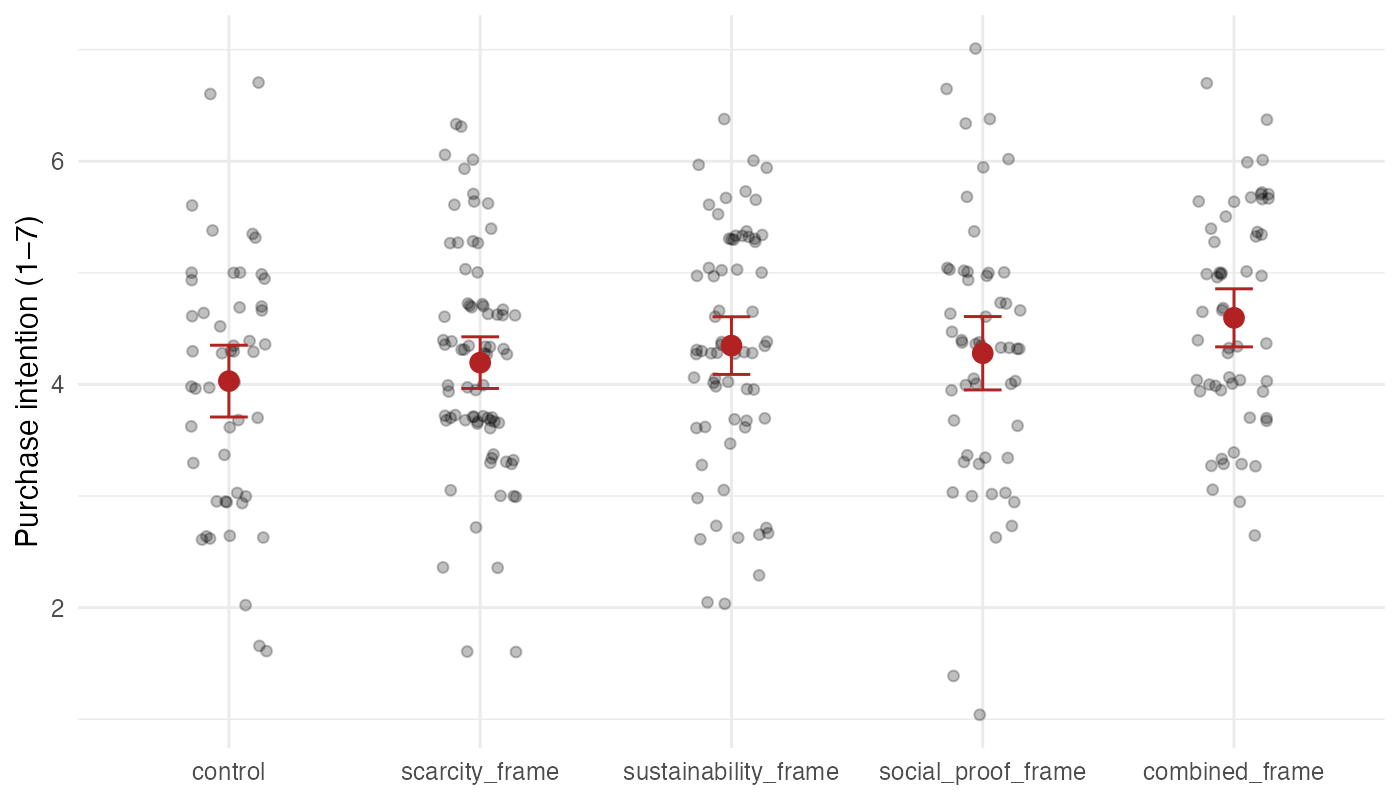
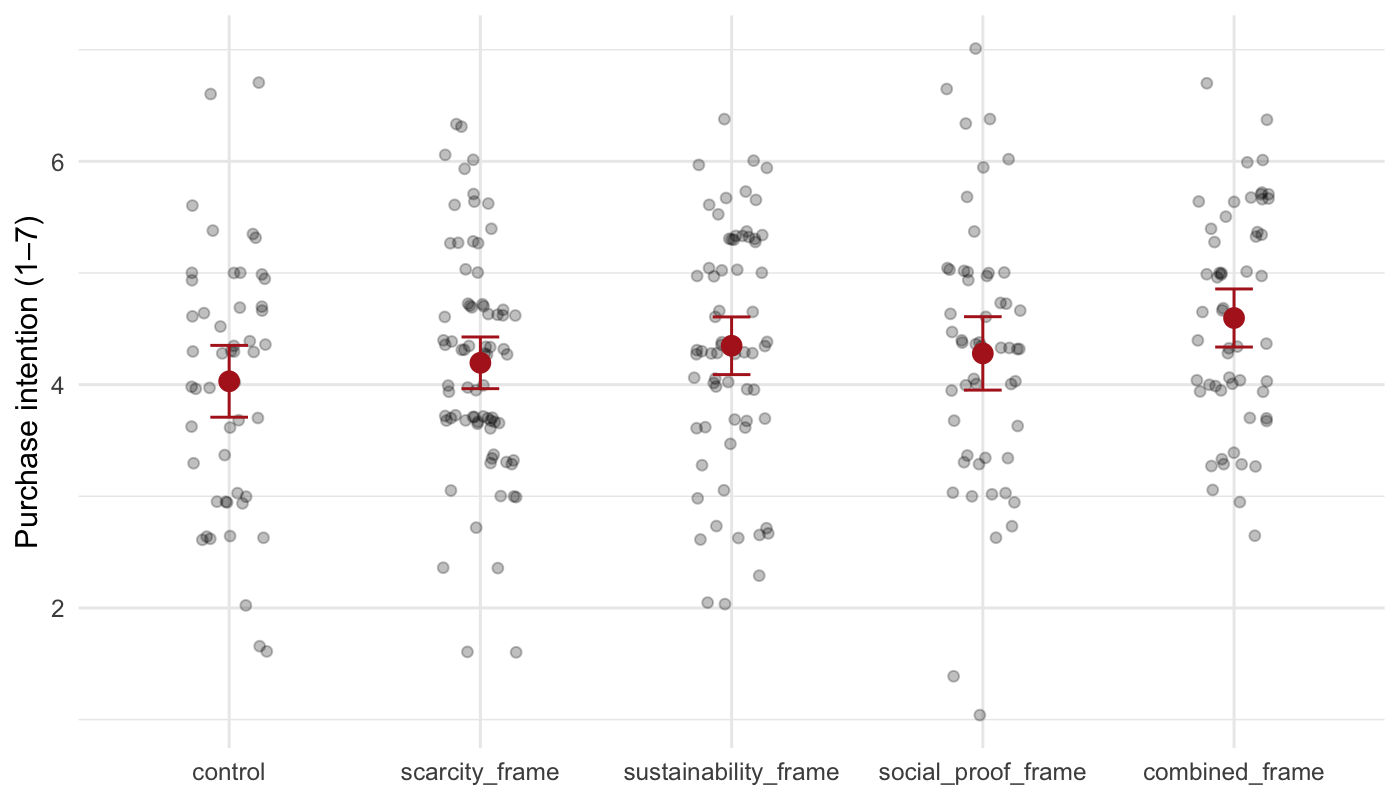
manuscript Latex into multiple

diff --git a/manuscript/main.tex b/manuscript/main.tex
@@ -1,3 +1,19 @@
+% ===========================================================================
+% main.tex — the ORCHESTRATOR. This file owns the preamble and the order of
+% the paper; it holds no prose itself. Everything is pulled in with \input{}.
+%
+% Two kinds of inputs, two workflows:
+%
+%   sections/*.tex        PROSE, no data. Live-edit these on Overleaf with
+%                         co-authors. Pull their edits back into git.
+%
+%   output/tabs/*.tex     GENERATED from data by R/03_analysis.R. Render and
+%   ../figures/*.png      push them; never hand-edit. Re-run the script and
+%                         they update on the next compile.
+%
+% This split keeps collaboration (prose) and reproducibility (data) from
+% stepping on each other, while one file keeps the overview of the whole paper.
+% ===========================================================================
 \documentclass[11pt]{article}
 
 \usepackage[a4paper, margin=1in]{geometry}
@@ -16,62 +32,16 @@
 \maketitle
 
 \begin{abstract}
-We test whether messaging frames (scarcity, sustainability, social proof,
-and a combined frame) increase purchase intention for everyday consumer
-products, whether this effect is mediated by perceived value, and whether
-it is moderated by price sensitivity. Data, scripts, and outputs live in
-the same git repository as this manuscript.
+\input{sections/abstract.tex}
 \end{abstract}
 
-\section{Introduction}
+% ---- Prose sections (live-editable on Overleaf) ---------------------------
+\input{sections/introduction.tex}
+\input{sections/methods.tex}
+\input{sections/results.tex}
+\input{sections/discussion.tex}
 
-Mediation and moderation logic follows the classical framework
-\citep{baron1986} and the regression-based approach in \citet{hayes2017}.
-
-\section{Methods}
-
-Three hundred simulated participants were randomly assigned to one of five
-conditions and reported their attitudes and a hypothetical purchase
-decision. See the project repository for the full codebook.
-
-\section{Results}
-
-\subsection{Main effect}
-
-\begin{figure}[h]
-  \centering
-  \includegraphics[width=0.85\textwidth]{../figures/fig_01_pi_by_condition.png}
-  \caption{Purchase intention by condition. Red points are condition means
-           with 95\% confidence intervals.}
-  \label{fig:main}
-\end{figure}
-
-\subsection{Mediation through perceived value}
-
-\begin{figure}[h]
-  \centering
-  \includegraphics[width=0.85\textwidth]{../figures/fig_02_mediation_scatter.png}
-  \caption{Perceived value predicts purchase intention; the conditions
-           shift perceived value upward, producing an indirect path.}
-  \label{fig:mediation}
-\end{figure}
-
-\subsection{Moderation by price sensitivity}
-
-\begin{figure}[h]
-  \centering
-  \includegraphics[width=0.85\textwidth]{../figures/fig_03_moderation.png}
-  \caption{The condition boost is attenuated for high-price-sensitive
-           respondents.}
-  \label{fig:moderation}
-\end{figure}
-
-\section{Discussion}
-
-The figures referenced above are produced by \texttt{R/03\_analysis.R}.
-Re-running that script overwrites them; this manuscript picks up the new
-versions on the next compile. No file is duplicated between code and paper.
-
+% ---- Bibliography ---------------------------------------------------------
 \bibliographystyle{plain}
 \bibliography{../references/references}
 

diff --git a/manuscript/output/tabs/model_table.tex b/manuscript/output/tabs/model_table.tex
@@ -1,0 +1,70 @@
+\begin{table}
+
+\caption{\label{tab:models}Model estimates with 95\% confidence intervals.}
+\centering
+\begin{tabular}[t]{llrrrrr}
+\toprule
+Model & Term & Estimate & SE & CI low & CI high & p\\
+\midrule
+total & (Intercept) & 4.08 & 0.25 & 3.59 & 4.58 & 0.000\\
+total & conditionscarcity\_frame & 0.14 & 0.20 & -0.26 & 0.54 & 0.494\\
+total & conditionsustainability\_frame & 0.31 & 0.21 & -0.09 & 0.72 & 0.133\\
+total & conditionsocial\_proof\_frame & 0.24 & 0.22 & -0.19 & 0.67 & 0.271\\
+total & conditioncombined\_frame & 0.58 & 0.22 & 0.15 & 1.01 & 0.008\\
+\addlinespace
+total & age & 0.00 & 0.01 & -0.01 & 0.01 & 0.858\\
+total & genderman & -0.03 & 0.14 & -0.30 & 0.24 & 0.816\\
+total & gendernon\_binary & -0.46 & 0.34 & -1.14 & 0.21 & 0.175\\
+total & genderprefer\_not\_to\_say & 0.12 & 0.30 & -0.46 & 0.71 & 0.676\\
+total & income\_group.L & -0.18 & 0.13 & -0.43 & 0.08 & 0.177\\
+\addlinespace
+total & income\_group.Q & 0.02 & 0.10 & -0.18 & 0.23 & 0.841\\
+mediator & (Intercept) & 4.06 & 0.24 & 3.58 & 4.55 & 0.000\\
+mediator & conditionscarcity\_frame & 0.04 & 0.20 & -0.34 & 0.43 & 0.820\\
+mediator & conditionsustainability\_frame & 0.48 & 0.20 & 0.09 & 0.87 & 0.016\\
+mediator & conditionsocial\_proof\_frame & 0.20 & 0.21 & -0.22 & 0.61 & 0.351\\
+\addlinespace
+mediator & conditioncombined\_frame & 0.85 & 0.21 & 0.44 & 1.26 & 0.000\\
+mediator & age & 0.00 & 0.01 & -0.01 & 0.01 & 0.877\\
+mediator & genderman & -0.11 & 0.13 & -0.37 & 0.15 & 0.413\\
+mediator & gendernon\_binary & -0.07 & 0.33 & -0.72 & 0.58 & 0.832\\
+mediator & genderprefer\_not\_to\_say & 0.43 & 0.29 & -0.13 & 1.00 & 0.132\\
+\addlinespace
+mediator & income\_group.L & -0.10 & 0.12 & -0.35 & 0.15 & 0.424\\
+mediator & income\_group.Q & 0.04 & 0.10 & -0.15 & 0.24 & 0.665\\
+outcome\_w\_m & (Intercept) & 2.23 & 0.32 & 1.60 & 2.87 & 0.000\\
+outcome\_w\_m & conditionscarcity\_frame & 0.12 & 0.18 & -0.24 & 0.48 & 0.516\\
+outcome\_w\_m & conditionsustainability\_frame & 0.09 & 0.19 & -0.28 & 0.46 & 0.630\\
+\addlinespace
+outcome\_w\_m & conditionsocial\_proof\_frame & 0.15 & 0.20 & -0.24 & 0.54 & 0.443\\
+outcome\_w\_m & conditioncombined\_frame & 0.19 & 0.20 & -0.20 & 0.59 & 0.334\\
+outcome\_w\_m & perceived\_value & 0.46 & 0.06 & 0.35 & 0.57 & 0.000\\
+outcome\_w\_m & age & 0.00 & 0.01 & -0.01 & 0.01 & 0.784\\
+outcome\_w\_m & genderman & 0.02 & 0.12 & -0.22 & 0.26 & 0.888\\
+\addlinespace
+outcome\_w\_m & gendernon\_binary & -0.43 & 0.31 & -1.04 & 0.17 & 0.160\\
+outcome\_w\_m & genderprefer\_not\_to\_say & -0.07 & 0.27 & -0.60 & 0.46 & 0.786\\
+outcome\_w\_m & income\_group.L & -0.13 & 0.12 & -0.36 & 0.10 & 0.267\\
+outcome\_w\_m & income\_group.Q & 0.00 & 0.09 & -0.18 & 0.19 & 0.990\\
+moderation & (Intercept) & 4.15 & 0.24 & 3.67 & 4.63 & 0.000\\
+\addlinespace
+moderation & conditionscarcity\_frame & 0.09 & 0.20 & -0.30 & 0.48 & 0.649\\
+moderation & conditionsustainability\_frame & 0.27 & 0.20 & -0.12 & 0.66 & 0.177\\
+moderation & conditionsocial\_proof\_frame & 0.09 & 0.21 & -0.33 & 0.51 & 0.667\\
+moderation & conditioncombined\_frame & 0.48 & 0.21 & 0.06 & 0.89 & 0.025\\
+moderation & price\_sensitivity\_c & -0.49 & 0.12 & -0.72 & -0.25 & 0.000\\
+\addlinespace
+moderation & age & 0.00 & 0.01 & -0.01 & 0.01 & 0.947\\
+moderation & genderman & -0.07 & 0.13 & -0.33 & 0.19 & 0.603\\
+moderation & gendernon\_binary & -0.32 & 0.33 & -0.97 & 0.33 & 0.329\\
+moderation & genderprefer\_not\_to\_say & 0.15 & 0.29 & -0.41 & 0.72 & 0.590\\
+moderation & income\_group.L & -0.21 & 0.13 & -0.45 & 0.04 & 0.102\\
+\addlinespace
+moderation & income\_group.Q & 0.03 & 0.10 & -0.16 & 0.23 & 0.743\\
+moderation & conditionscarcity\_frame:price\_sensitivity\_c & 0.29 & 0.15 & -0.01 & 0.60 & 0.060\\
+moderation & conditionsustainability\_frame:price\_sensitivity\_c & 0.28 & 0.16 & -0.05 & 0.60 & 0.095\\
+moderation & conditionsocial\_proof\_frame:price\_sensitivity\_c & 0.24 & 0.16 & -0.08 & 0.57 & 0.142\\
+moderation & conditioncombined\_frame:price\_sensitivity\_c & 0.35 & 0.17 & 0.02 & 0.69 & 0.039\\
+\bottomrule
+\end{tabular}
+\end{table}

diff --git a/manuscript/sections/results.tex b/manuscript/sections/results.tex
@@ -1,0 +1,46 @@
+% sections/results.tex — PROSE + references to GENERATED files.
+%
+% The prose here is safe to live-edit on Overleaf. The figures
+% (../figures/*.png) and the model table (output/tabs/model_table.tex) are
+% produced by R/03_analysis.R and pushed — do NOT hand-edit those; re-run
+% the script and they update on the next compile.
+\section{Results}
+
+\subsection{Main effect}
+
+\begin{figure}[h]
+  \centering
+  \includegraphics[width=0.85\textwidth]{../figures/fig_01_pi_by_condition.png}
+  \caption{Purchase intention by condition. Red points are condition means
+           with 95\% confidence intervals.}
+  \label{fig:main}
+\end{figure}
+
+\subsection{Mediation through perceived value}
+
+\begin{figure}[h]
+  \centering
+  \includegraphics[width=0.85\textwidth]{../figures/fig_02_mediation_scatter.png}
+  \caption{Perceived value predicts purchase intention; the conditions
+           shift perceived value upward, producing an indirect path.}
+  \label{fig:mediation}
+\end{figure}
+
+\subsection{Moderation by price sensitivity}
+
+\begin{figure}[h]
+  \centering
+  \includegraphics[width=0.85\textwidth]{../figures/fig_03_moderation.png}
+  \caption{The condition boost is attenuated for high-price-sensitive
+           respondents.}
+  \label{fig:moderation}
+\end{figure}
+
+\subsection{Model estimates}
+
+Table~\ref{tab:models} collects the coefficients behind the figures above.
+It is generated by \texttt{R/03\_analysis.R} and written straight into
+\texttt{output/tabs/}, so the numbers in the paper can never drift from the
+numbers in the analysis.
+
+\input{output/tabs/model_table.tex}

diff --git a/manuscript/sections/discussion.tex b/manuscript/sections/discussion.tex
@@ -1,0 +1,7 @@
+% sections/discussion.tex — PROSE (no data). Safe to live-edit on Overleaf.
+\section{Discussion}
+
+The figures and table referenced above are produced by
+\texttt{R/03\_analysis.R}. Re-running that script overwrites them; this
+manuscript picks up the new versions on the next compile. No file is
+duplicated between code and paper.

diff --git a/manuscript/sections/abstract.tex b/manuscript/sections/abstract.tex
@@ -1,0 +1,6 @@
+% sections/abstract.tex — PROSE (no data). Safe to live-edit on Overleaf.
+We test whether messaging frames (scarcity, sustainability, social proof,
+and a combined frame) increase purchase intention for everyday consumer
+products, whether this effect is mediated by perceived value, and whether
+it is moderated by price sensitivity. Data, scripts, and outputs live in
+the same git repository as this manuscript.

diff --git a/manuscript/sections/methods.tex b/manuscript/sections/methods.tex
@@ -1,0 +1,6 @@
+% sections/methods.tex — PROSE (no data). Safe to live-edit on Overleaf.
+\section{Methods}
+
+Three hundred simulated participants were randomly assigned to one of five
+conditions and reported their attitudes and a hypothetical purchase
+decision. See the project repository for the full codebook.

diff --git a/manuscript/sections/introduction.tex b/manuscript/sections/introduction.tex
@@ -1,0 +1,5 @@
+% sections/introduction.tex — PROSE (no data). Safe to live-edit on Overleaf.
+\section{Introduction}
+
+Mediation and moderation logic follows the classical framework
+\citep{baron1986} and the regression-based approach in \citet{hayes2017}.

diff --git a/manuscript/README.md b/manuscript/README.md
@@ -7,18 +7,55 @@ The static, paper-style version of your work. Two routes land here:
    [`../reports/00_walkthrough.qmd`](../reports/00_walkthrough.qmd). A
    post-render hook ([`../scripts/post_render.R`](../scripts/post_render.R))
    moves them out of `docs/` and into here. **This is the easy path.**
-2. **Hand-written LaTeX in [`main.tex`](main.tex).** Use this when you need
-   journal-specific formatting (a class file, a specific bibliography
-   style, custom title pages). The walkthrough's figures in
-   [`../figures/`](../figures/) and the shared `.bib` work the same way.
+2. **Hand-written LaTeX orchestrated by [`main.tex`](main.tex).** Use this
+   when you need journal-specific formatting (a class file, a specific
+   bibliography style, custom title pages) or when co-authors collaborate on
+   Overleaf. The walkthrough's figures in [`../figures/`](../figures/) and the
+   shared `.bib` work the same way.
 
 Pick whichever fits the destination. Internal report or working PDF → the
-walkthrough route. Journal submission → hand-written LaTeX, often via
-Overleaf.
+walkthrough route. Journal submission → the LaTeX route, often via Overleaf.
+
+## How the LaTeX is structured
+
+[`main.tex`](main.tex) is an **orchestrator**: it owns the preamble and the
+order of the paper, but holds no prose itself. It pulls everything in with
+`\input{}`. There are two kinds of inputs, and they have two different
+workflows:
+
+| Kind | Lives in | Contains data? | Workflow |
+| --- | --- | --- | --- |
+| **Prose** | [`sections/`](sections/) | No | Live-edit on Overleaf with co-authors, pull edits back into git. |
+| **Generated** | [`output/tabs/`](output/tabs/), [`../figures/`](../figures/) | Yes | R writes them, you commit them. **Never hand-edit.** Re-run the script and they refresh on the next compile. |
+
+This is the whole point of the split: prose changes (collaboration) and data
+changes (reproducibility) never step on each other, and `main.tex` keeps the
+overview of the whole paper in one place. A table like
+[`output/tabs/model_table.tex`](output/tabs/) is produced by
+[`../R/03_analysis.R`](../R/03_analysis.R) — the numbers in the paper can't
+drift from the numbers in the analysis.
+
+```
+manuscript/
+├── main.tex              # orchestrator — preamble + \input order, no prose
+├── sections/             # PROSE — live-edit on Overleaf
+│   ├── abstract.tex
+│   ├── introduction.tex
+│   ├── methods.tex
+│   ├── results.tex       # prose + \input of the generated table
+│   └── discussion.tex
+└── output/
+    ├── tabs/             # GENERATED tables from R/03_analysis.R (committed)
+    │   └── model_table.tex
+    ├── walkthrough.pdf   # from the Quarto route
+    └── walkthrough.docx
+```
 
 ## Files
 
-- `main.tex` — hand-written paper.
+- `main.tex` — orchestrator. Owns the preamble and `\input{}` order.
+- `sections/` — prose files, one per section. The live-editable parts.
+- `output/tabs/` — LaTeX tables generated by R. Committed, never hand-edited.
 - `output/` — rendered PDFs and DOCX (from both routes). Committed so
   reviewers can read without compiling.
 
@@ -51,11 +88,21 @@ Overleaf has built-in git integration:
 
 Treat Overleaf as a remote for the `manuscript/` subtree only. The rest of the repo stays on GitHub.
 
+Because the prose lives in `sections/`, co-authors edit those files on Overleaf
+while the generated `output/tabs/` files stay machine-owned — Overleaf shows
+the merges and history per file, so a reworded paragraph and a refreshed table
+never collide.
+
 ## Citations
 
-The `.bib` and `.csl` files live in [`../references/`](../references/) and are shared with Quarto reports. In `main.tex`:
+The `.bib` lives in [`../references/`](../references/) and is shared with the
+Quarto reports. `main.tex` pulls it in with `natbib`:
 
 ```latex
 \bibliography{../references/references}
-\bibliographystyle{apa}
+\bibliographystyle{plain}
 ```
+
+Swap `plain` for a journal style (e.g. `apalike`) when submitting, or move to
+`biblatex`/`biber` if you need APA 7 — see the example project the workshop
+ships with.

diff --git a/README.md b/README.md
@@ -129,7 +129,7 @@ project:
 
 - **GitHub Pages:** Settings → Pages → "Deploy from branch" → `main` / `docs`.
 - **PDF prerequisite:** `Rscript -e 'install.packages("tinytex"); tinytex::install_tinytex()'`. Without it, `--to pdf` fails; `--to html` and `--to docx` still work.
-- **For a hand-crafted journal manuscript:** edit `manuscript/main.tex` instead (Texifier or `tinytex::pdflatex()`), or push to Overleaf via git. See [`manuscript/README.md`](manuscript/README.md).
+- **For a hand-crafted journal manuscript:** `manuscript/main.tex` orchestrates the paper, `\input{}`-ing prose from `manuscript/sections/` (live-editable on Overleaf) and data-driven tables/figures generated by R (`manuscript/output/tabs/`, `figures/`). Render with Texifier or `tinytex::pdflatex()`, or push to Overleaf via git. See [`manuscript/README.md`](manuscript/README.md).
 - **App:** `shiny::runApp("shiny/")` locally, or deploy to shinyapps.io.
 
 Each folder's README walks you through the specifics.